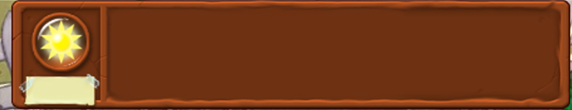
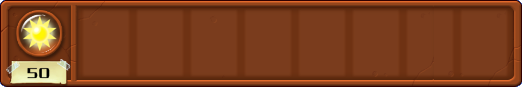
modify menubar

diff --git a/source/component/menubar.py b/source/component/menubar.py
@@ -12,7 +12,7 @@ plant_name_list = [c.SUNFLOWER, c.PEASHOOTER, c.SNOWPEASHOOTER, c.WALLNUT,
                    c.PUFFMUSHROOM, c.POTATOMINE, c.SQUASH]
 plant_sun_list = [50, 100, 175, 50, 150, 325, 200, 150, 0, 25, 50]
 plant_frozen_time_list = [0, 5000, 5000, 10000, 5000, 5000, 5000, 5000, 8000, 8000, 8000]
-card_list = [0, 1, 8, 3, 4, 10, 9]
+card_list = [0, 1, 3, 4, 7, 8, 9, 10]
 
 class Card():
     def __init__(self, x, y, name_index):
@@ -31,7 +31,7 @@ class Card():
         rect = frame.get_rect()
         width, height = rect.w, rect.h
 
-        self.image = tool.get_image(frame, 0, 0, width, height, c.BLACK, 0.8)
+        self.image = tool.get_image(frame, 0, 0, width, height, c.BLACK, 0.78)
     
     def checkMouseClick(self, mouse_pos):
         x, y = mouse_pos
@@ -66,17 +66,16 @@ class MenuBar():
         self.rect.y = 0
         
         self.sun_value = sun_value
-        self.card_offset_x = 38
+        self.card_offset_x = 32
         self.setupCards(card_list)
         self.font = pg.font.SysFont(None, 20)
 
     def loadFrame(self, name):
-        frame_rect = [11, 0, 560, 108]
         frame = tool.GFX[name]
         rect = frame.get_rect()
-        width, height = rect.w, rect.h
+        frame_rect = (rect.x, rect.y, rect.w, rect.h)
 
-        self.image = tool.get_image(tool.GFX[name], *frame_rect, c.BLACK, 0.8)
+        self.image = tool.get_image(tool.GFX[name], *frame_rect, c.WHITE, 1)
 
     def update(self, current_time):
         self.current_time = current_time
@@ -102,9 +101,9 @@ class MenuBar():
     def setupCards(self, card_list):
         self.card_list = []
         x = self.card_offset_x
-        y = 7
+        y = 8
         for index in card_list:
-            x += 51
+            x += 55
             self.card_list.append(Card(x, y, index))
 
     def checkCardClick(self, mouse_pos):
@@ -136,7 +135,7 @@ class MenuBar():
                 break
 
     def drawSunValue(self):
-        width = 30
+        width = 32
         msg_image = self.font.render(str(self.sun_value), True, c.NAVYBLUE, c.LIGHTYELLOW)
         msg_rect = msg_image.get_rect()
         msg_w = msg_rect.width
@@ -151,7 +150,7 @@ class MenuBar():
         self.value_image = image
         self.value_rect = self.value_image.get_rect()
         self.value_rect.x = 18
-        self.value_rect.y = self.rect.bottom - 20
+        self.value_rect.y = self.rect.bottom - 21
         
         self.image.blit(self.value_image, self.value_rect)
 
